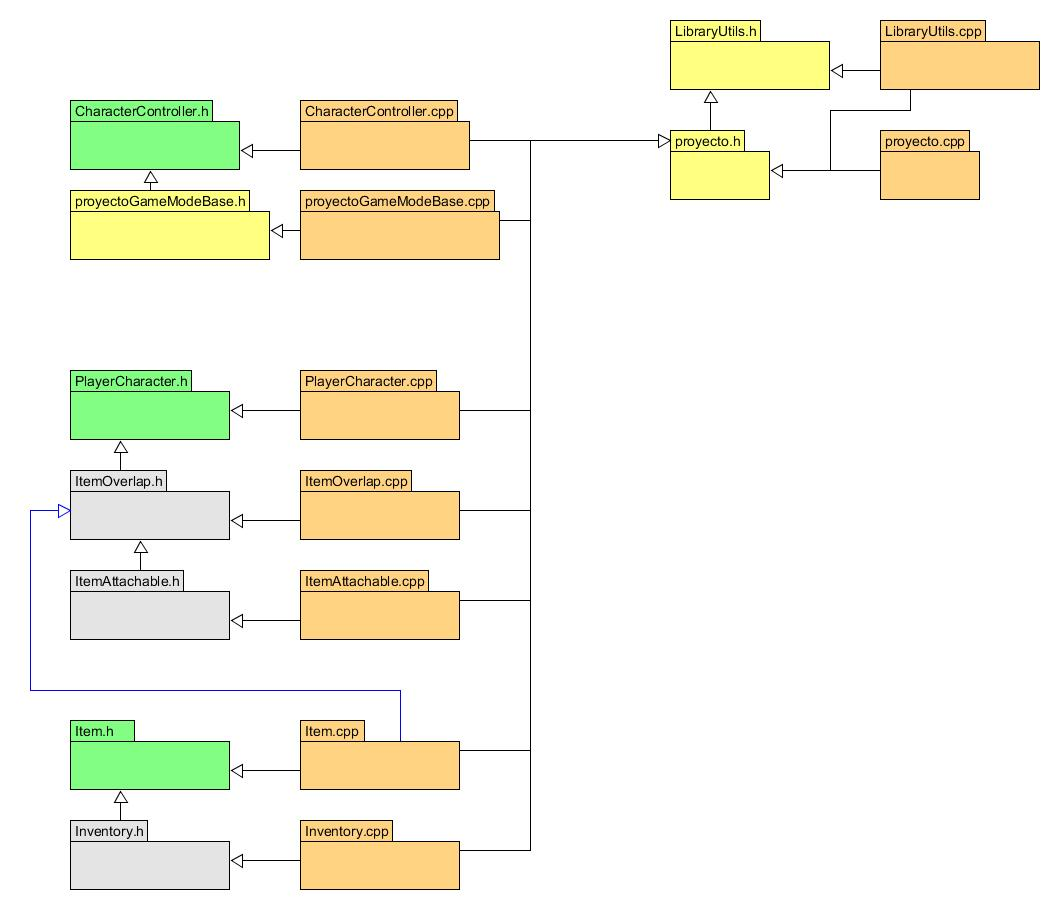
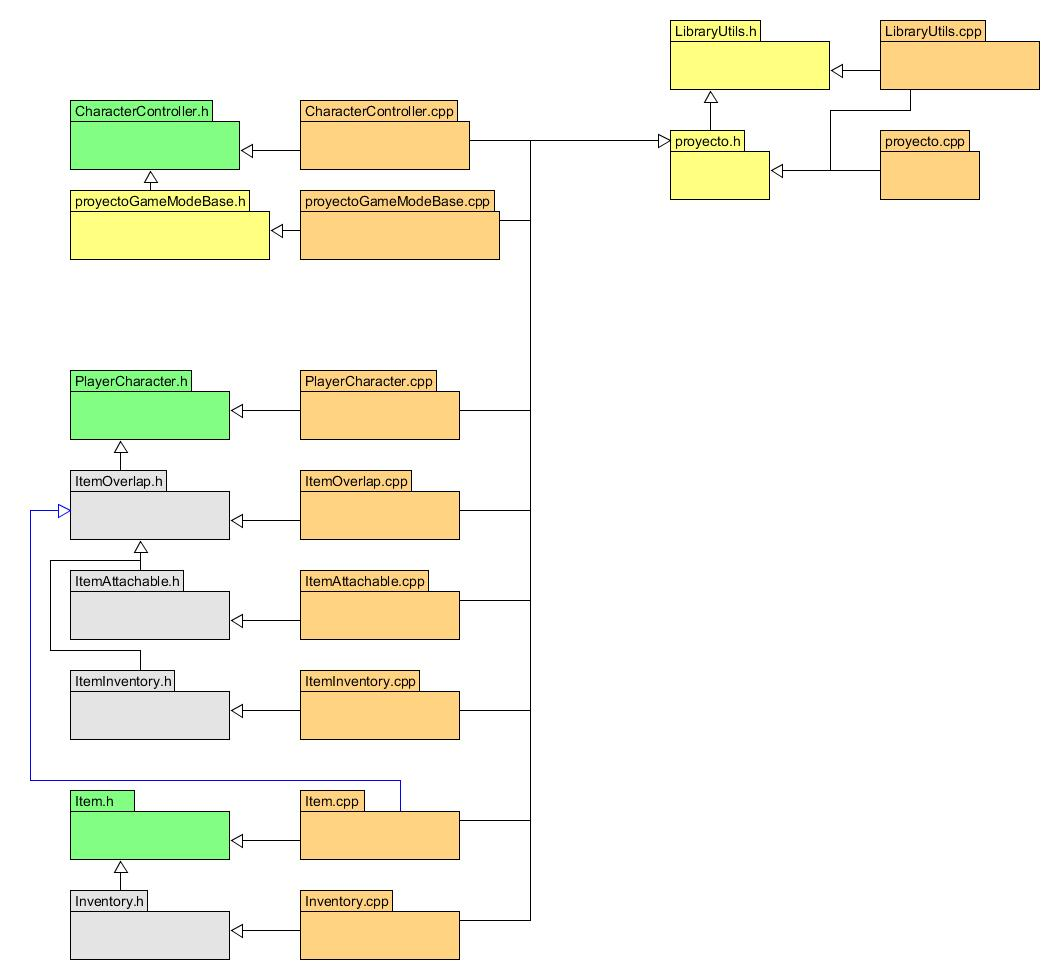
itemInventory ready

diff --git a/Source/proyecto/ItemInventory.cpp b/Source/proyecto/ItemInventory.cpp
@@ -1,0 +1,41 @@
+// Fill out your copyright notice in the Description page of Project Settings.
+
+#include "proyecto.h"
+#include "ItemInventory.h"
+
+UItemInventory::UItemInventory() : Super(), _weight(0) {}
+
+void UItemInventory::BeginPlay() {
+    Super::BeginPlay();
+}
+
+void UItemInventory::activateItem(UPrimitiveComponent* OverlappedComp,
+                                   APlayerCharacter* OtherActor,
+                                   UPrimitiveComponent* OtherComp,
+                                   int32 OtherBodyIndex, bool bFromSweep,
+                                   const FHitResult& SweepResult) {
+
+    Super::activateItem(OverlappedComp, OtherActor, OtherComp, OtherBodyIndex,
+                        bFromSweep, SweepResult);
+
+    ULibraryUtils::Log(TEXT("Inventory active"));
+    _binding = &OtherActor->InputComponent->BindAction("Take", IE_Released, this,
+                                                       &UItemInventory::inputCB);
+}
+
+void UItemInventory::deactivateItem(UPrimitiveComponent* OverlappedComp,
+                                     APlayerCharacter* OtherActor, UPrimitiveComponent* OtherComp,
+                                     int32 OtherBodyIndex) {
+
+    Super::deactivateItem(OverlappedComp, OtherActor, OtherComp, OtherBodyIndex);
+
+    ULibraryUtils::Log(TEXT("Attachable deactive"));
+    _binding->ActionDelegate.Unbind();
+}
+
+void UItemInventory::inputCB() {
+    AStaticMeshActor* owner = Cast<AStaticMeshActor>(GetOwner());
+    if (owner != nullptr) {
+        _actor->SaveItem(owner);
+    }
+}

diff --git a/Source/proyecto/PlayerCharacter.cpp b/Source/proyecto/PlayerCharacter.cpp
@@ -52,14 +52,7 @@ void APlayerCharacter::LookUpAtRate(float Rate) {
 
 /* OUTSIDE ACTION MAPPINGS */
 void APlayerCharacter::TakeItem(AStaticMeshActor* itemActor, FVector &location, FRotator &rotation) {
-    UActorComponent * component = itemActor->GetComponentByClass(UBoxComponent::StaticClass());
-    if (component) {
-        ULibraryUtils::Log(TEXT("BOX DESTROYED"), 3);
-        component->DestroyComponent(true);
-    }
-    else {
-        ULibraryUtils::Log(TEXT("BOX NOT DESTROYED"), 3);
-    }
+    cleanItem(itemActor);
 
     itemActor->GetStaticMeshComponent()->AttachTo(GetMesh(), TEXT("itemHand_r"),
                                                   EAttachLocation::KeepRelativeOffset, true);
@@ -69,5 +62,17 @@ void APlayerCharacter::TakeItem(AStaticMeshActor* itemActor, FVector &location, 
 }
 
 void APlayerCharacter::SaveItem(AStaticMeshActor* itemActor) {
-    
+    cleanItem(itemActor);
+}
+
+/* AUXILIAR */
+void APlayerCharacter::cleanItem(AStaticMeshActor* itemActor) {
+    UActorComponent * component = itemActor->GetComponentByClass(UBoxComponent::StaticClass());
+    if (component) {
+        ULibraryUtils::Log(TEXT("BOX DESTROYED"), 3);
+        component->DestroyComponent(true);
+    }
+    else {
+        ULibraryUtils::Log(TEXT("BOX NOT DESTROYED"), 3);
+    }
 }

diff --git a/Source/proyecto/ItemInventory.h b/Source/proyecto/ItemInventory.h
@@ -1,0 +1,33 @@
+// Fill out your copyright notice in the Description page of Project Settings.
+
+#pragma once
+
+#include "ItemOverlap.h"
+
+#include "ItemInventory.generated.h"
+
+UCLASS(ClassGroup = (Custom), meta = (BlueprintSpawnableComponent))
+class PROYECTO_API UItemInventory : public UItemOverlap {
+    GENERATED_BODY()
+
+public:
+    UPROPERTY(EditAnywhere)
+    int _weight;
+
+    UItemInventory();
+    virtual void BeginPlay() override;
+
+    virtual void activateItem(UPrimitiveComponent* OverlappedComp,
+                              APlayerCharacter* OtherActor,
+                              UPrimitiveComponent* OtherComp,
+                              int32 OtherBodyIndex, bool bFromSweep,
+                              const FHitResult& SweepResult);
+
+    virtual void deactivateItem(UPrimitiveComponent* OverlappedComp, APlayerCharacter* OtherActor,
+                                UPrimitiveComponent* OtherComp, int32 OtherBodyIndex);
+
+    void inputCB();
+
+private:
+    FInputActionBinding* _binding;
+};

diff --git a/Source/proyecto/Item.cpp b/Source/proyecto/Item.cpp
@@ -1,9 +1,9 @@
 // Fill out your copyright notice in the Description page of Project Settings.
 
-#include "ItemOverlap.h"
-
 #include "proyecto.h"
 #include "Item.h"
+
+#include "ItemOverlap.h"
 
 AItem::AItem() : Super() {
     _boxCollision = CreateDefaultSubobject<UBoxComponent>(TEXT("collisionBox"));

diff --git a/Source/proyecto/PlayerCharacter.h b/Source/proyecto/PlayerCharacter.h
@@ -44,4 +44,7 @@ protected:
     * @param Rate	This is a normalized rate, i.e. 1.0 means 100% of desired turn rate
     */
     void LookUpAtRate(float Rate);
+
+private:
+    void cleanItem(AStaticMeshActor* itemActor);
 };
